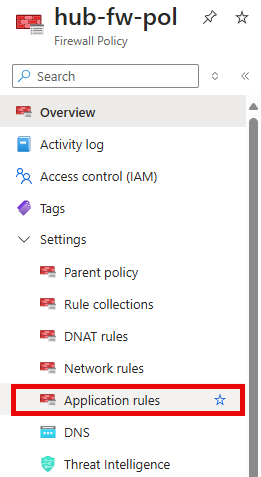
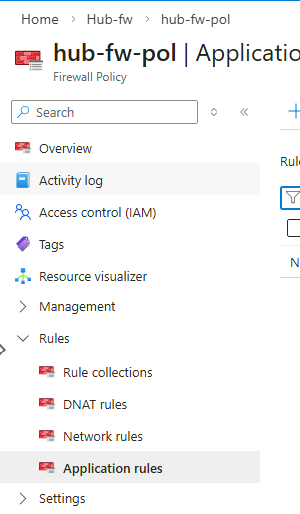
Exercise 4 Task 5 Application Rules

diff --git a/docs/04_secure_your_workloads/04_05.md b/docs/04_secure_your_workloads/04_05.md
@@ -175,7 +175,7 @@ The key tasks are as follows:
 
     ![The Hub-fw overview page is shown with the Firewall policy highlighted.](../../Hands-on%20lab/images/firewall-overview-policy.png "Hub-fw overview with Firewall policy highlighted")
 
-33. On the **hub-fw-pol** Firewall Policy blade, in the **Settings** section, select **Application rules**.
+33. On the **hub-fw-pol** Firewall Policy blade, in the **Rules** section, select **Application rules**.
 
     ![The hub-fw-pol Firewall Policy pane with the Application rules sub-section highlighted.](../../Hands-on%20lab/images/firewall-policy-apprules.png "The hub-fw-pol with Application rules highlighted")
 
